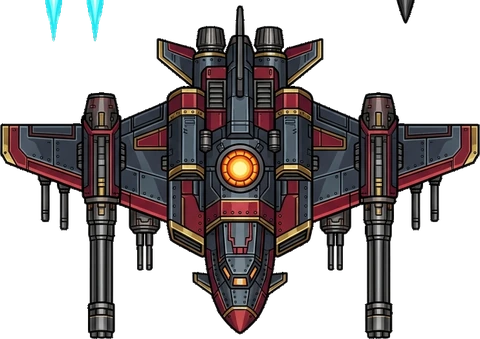
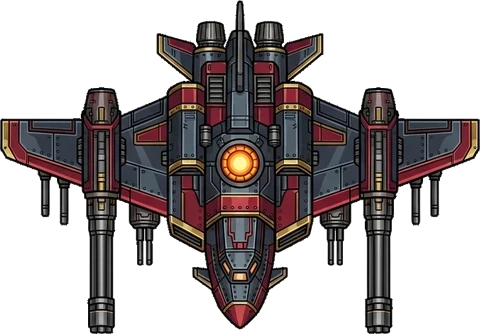
fix(raiden): seamless mirrored vertical scroll & remove tiny crop specks (v2)

diff --git a/raiden.js b/raiden.js
@@ -36,9 +36,9 @@
   const imgs = {};
   const assetMap = {
     bg: "./assets/raiden-bg.webp?v=20261120_raiden_v1",
-    hero: "./assets/raiden-hero.webp?v=20261120_raiden_v1",
-    enemy: "./assets/raiden-enemy.webp?v=20261120_raiden_v1",
-    boss: "./assets/raiden-boss.webp?v=20261120_raiden_v1"
+    hero: "./assets/raiden-hero.webp?v=20261120_raiden_v2",
+    enemy: "./assets/raiden-enemy.webp?v=20261120_raiden_v2",
+    boss: "./assets/raiden-boss.webp?v=20261120_raiden_v2"
   };
   for (const [k, src] of Object.entries(assetMap)) {
     const im = new Image();
@@ -787,16 +787,31 @@
     ctx.save();
     if (shake > 0) ctx.translate((Math.random() - 0.5) * shake, (Math.random() - 0.5) * shake);
 
-    // 1. 無縫縱向捲動高空夕陽海峽背景
+    // 1. 鏡像無縫縱向捲動高空夕陽海峽背景（零水平接縫）
     const bg = imgs.bg;
     if (bg && bg.complete && bg.naturalWidth > 0) {
       const scale = Math.max(vw / bg.naturalWidth, vh / bg.naturalHeight);
       const dw = bg.naturalWidth * scale;
       const dh = bg.naturalHeight * scale;
       const ox = (vw - dw) * 0.5;
-      const yOff = bgScroll % dh;
-      ctx.drawImage(bg, ox, yOff - dh, dw, dh);
-      ctx.drawImage(bg, ox, yOff, dw, dh);
+      const cycle = dh * 2;
+      const yOff = bgScroll % cycle;
+      const drawTile = (y, flipped) => {
+        if (y + dh < 0 || y > vh) return;
+        ctx.save();
+        if (flipped) {
+          ctx.translate(0, y + dh);
+          ctx.scale(1, -1);
+          ctx.drawImage(bg, ox, 0, dw, dh);
+        } else {
+          ctx.drawImage(bg, ox, y, dw, dh);
+        }
+        ctx.restore();
+      };
+      drawTile(yOff - cycle, false);
+      drawTile(yOff - dh, true);
+      drawTile(yOff, false);
+      drawTile(yOff + dh, true);
     } else {
       ctx.fillStyle = "#0a2a44";
       ctx.fillRect(0, 0, vw, vh);

diff --git a/raiden.html b/raiden.html
@@ -56,6 +56,6 @@
     </div>
   </div>
 
-  <script src="./raiden.js?v=20261120_raiden_v1"></script>
+  <script src="./raiden.js?v=20261120_raiden_v2"></script>
 </body>
 </html>
